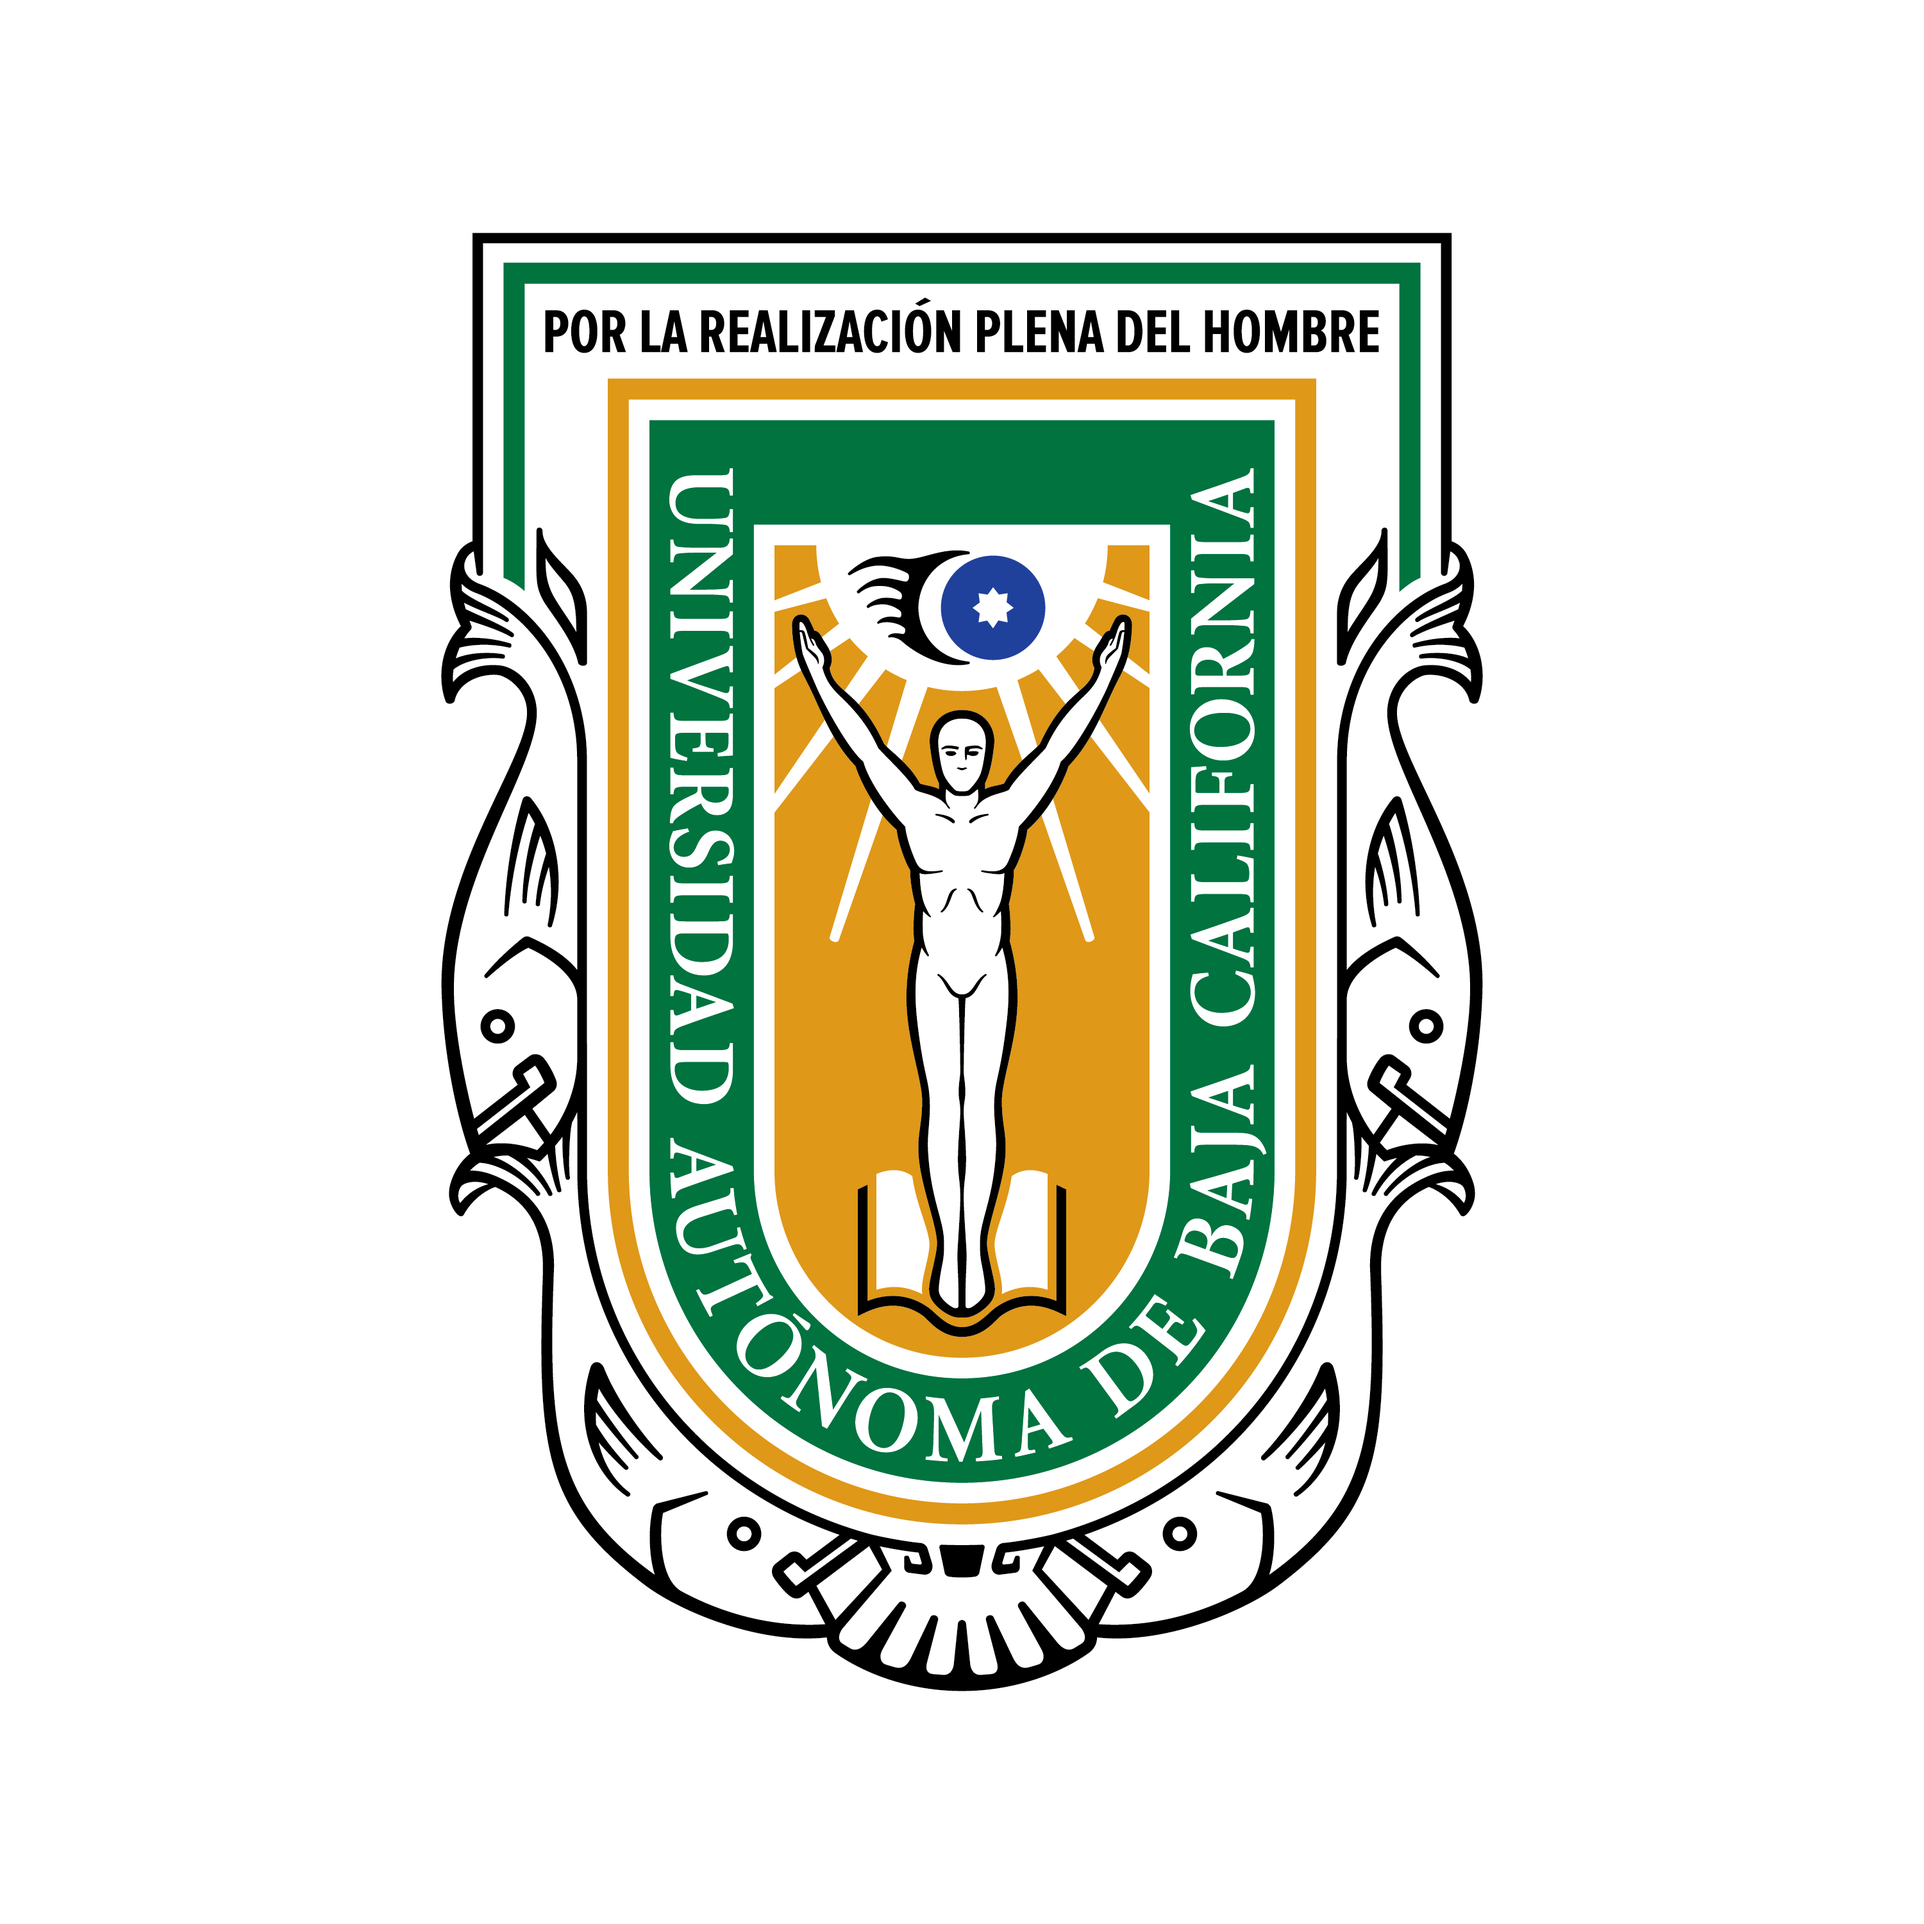
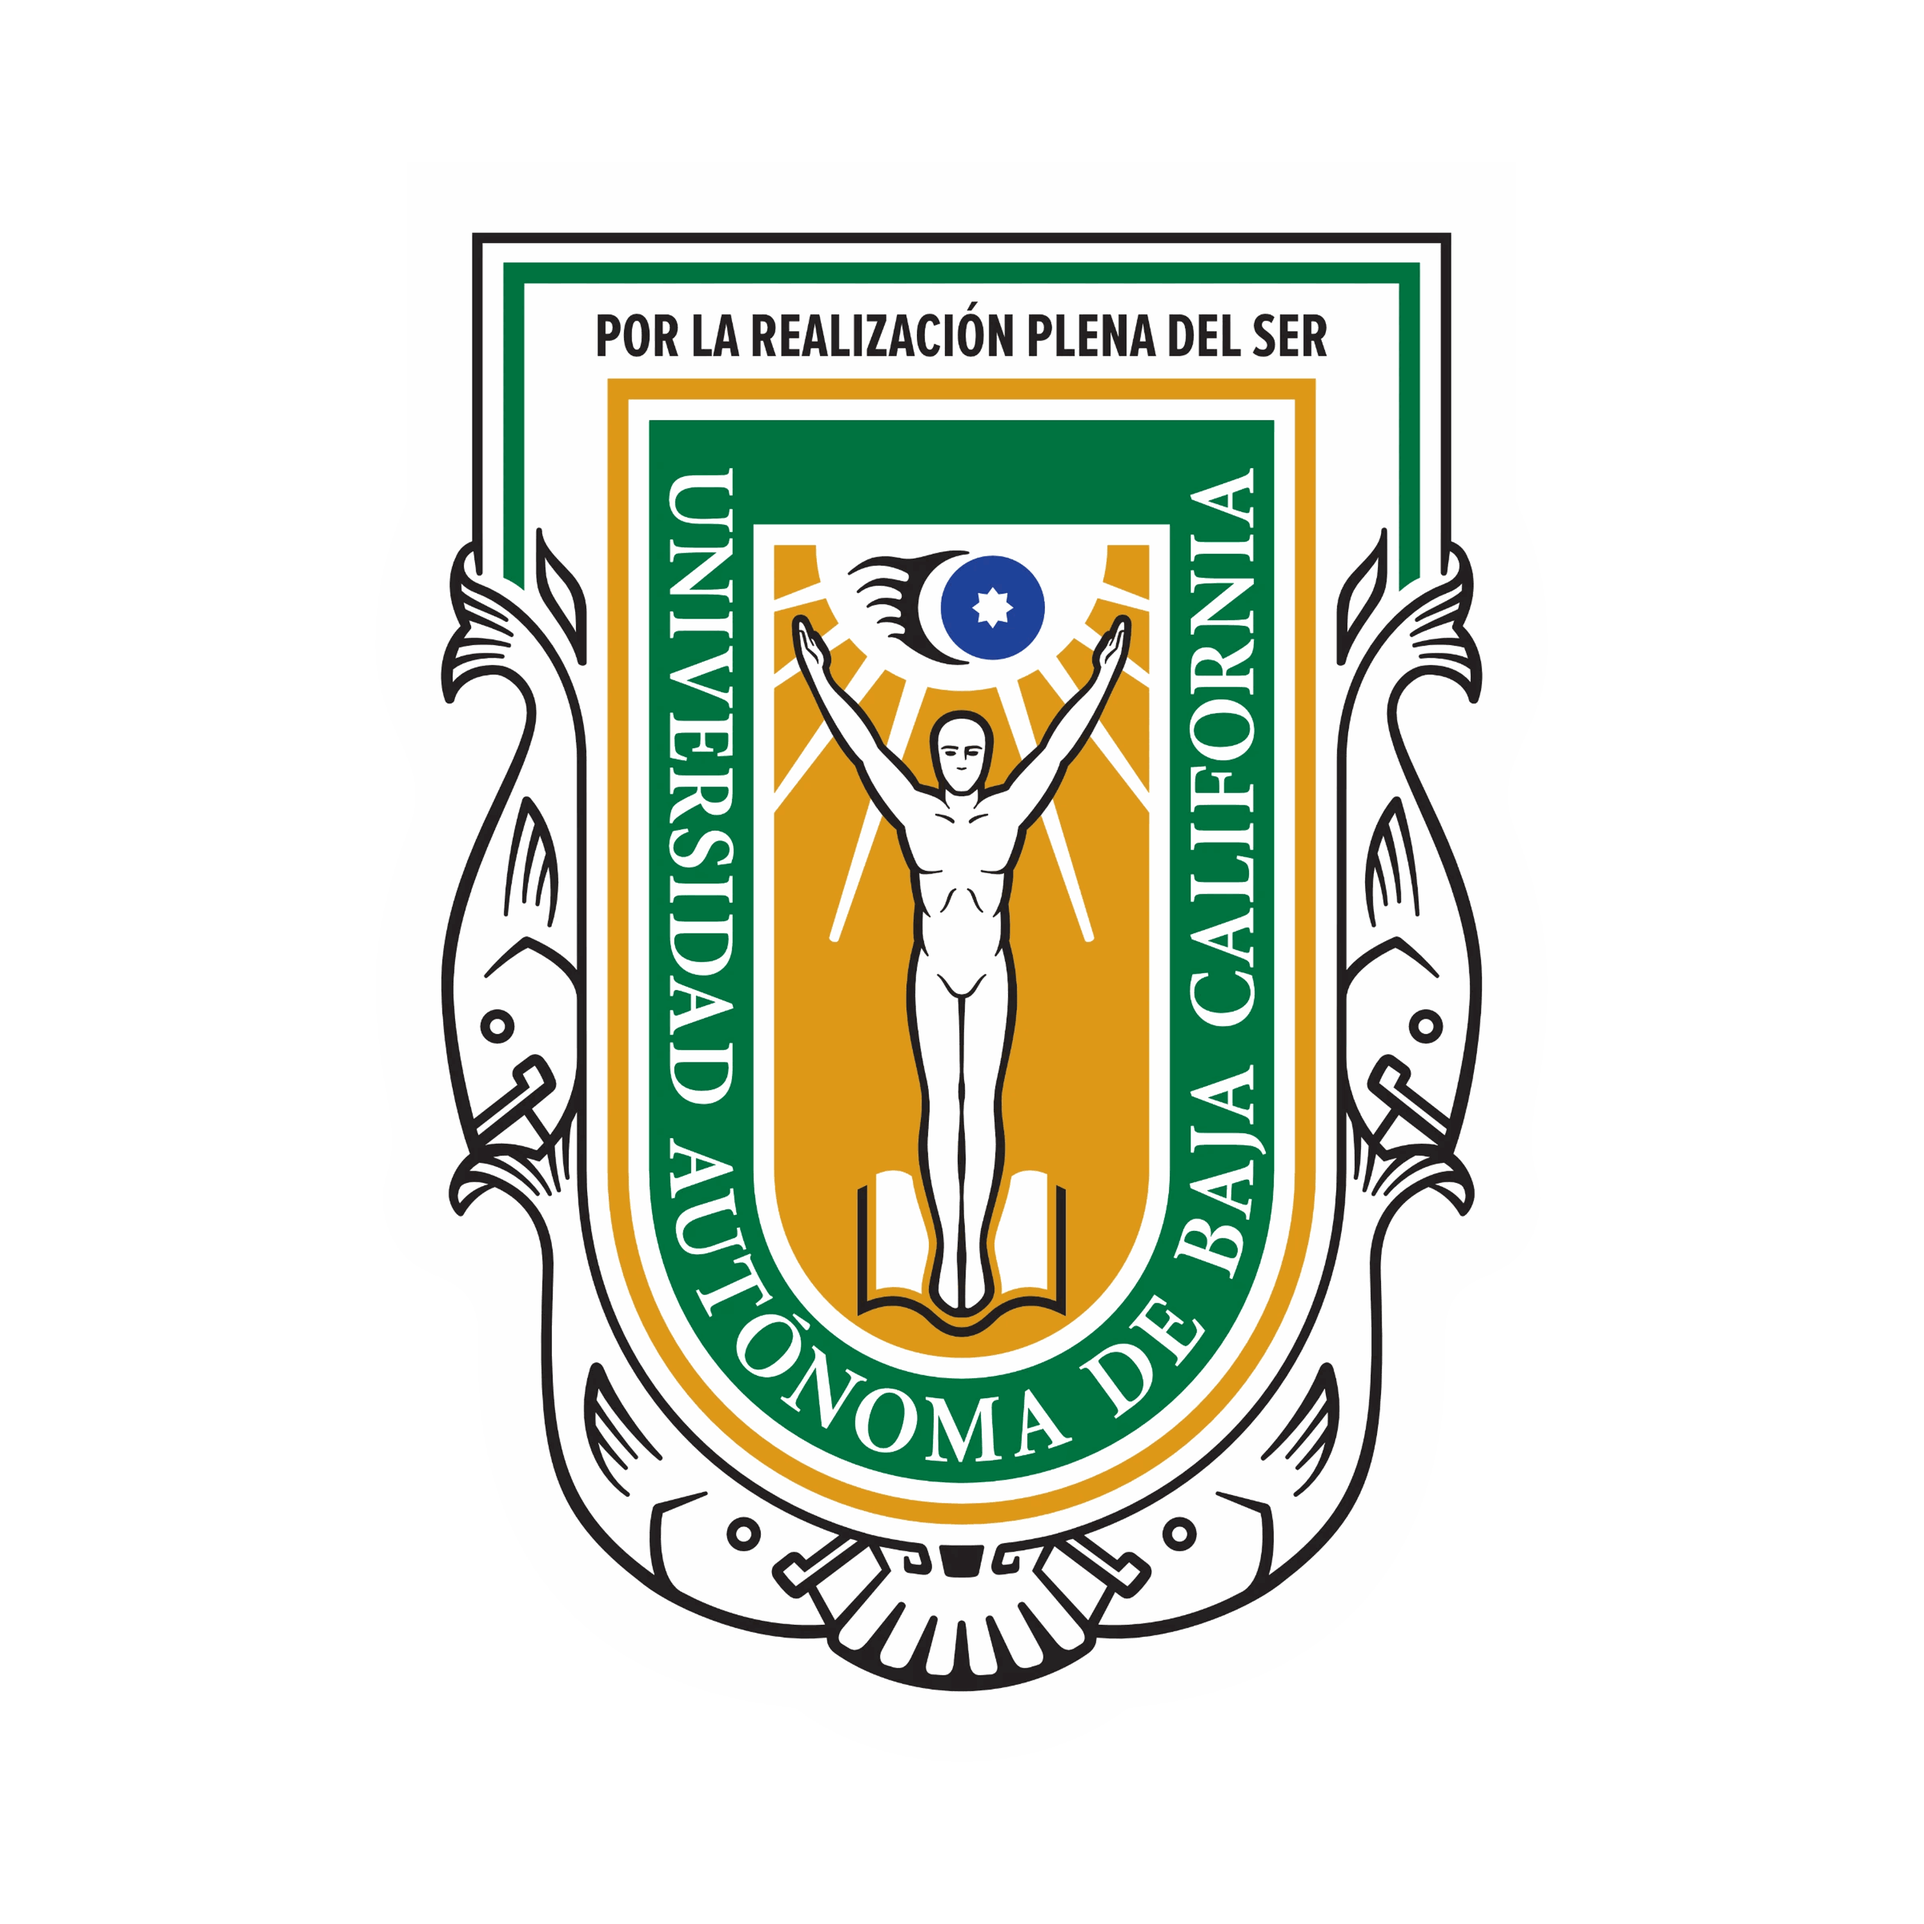
Escudo UABC actualizado en todo el sitio

Changed region(s): [[0.2169, 0.093, 0.7747, 0.8987], [0.4029, 0.3099, 0.5888, 0.7128], [0.4339, 0.2789, 0.4958, 0.3409]]

diff --git a/frontend/src/components/SplashScreen.vue b/frontend/src/components/SplashScreen.vue
@@ -10,7 +10,7 @@ const KEY = "cuenca.splash";
 const DURATION = 4200;
 
 const partners = [
-  { name: "Universidad Autónoma de Baja California", src: "/assets/images/aliados/uabc.webp", w: 263, h: 360 },
+  { name: "Universidad Autónoma de Baja California", src: "/assets/images/aliados/uabc-v2.webp", w: 264, h: 360 },
   { name: "Facultad de Ciencias Químicas e Ingeniería", src: "/assets/images/aliados/fcqi.webp", w: 166, h: 360 },
   { name: "Ayuntamiento de Tijuana", gov: true, src: "/assets/images/aliados/ayuntamiento-tijuana.webp", w: 360, h: 143, wide: true },
   { name: "Sistema Estatal de Protección Civil Baja California", gov: true, src: "/assets/images/aliados/proteccion-civil-bc.webp", w: 1154, h: 360, wide: true },

diff --git a/frontend/src/App.vue b/frontend/src/App.vue
@@ -197,10 +197,10 @@ onMounted(() => {
             >
             <img
               class="footer-uabc"
-              src="/assets/images/logo_uabc-80.webp"
+              src="/assets/images/uabc-escudo-80.webp"
               alt="Escudo UABC"
               width="40"
-              height="52"
+              height="55"
             />
           </div>
           <h2 class="footer-title">Síguenos</h2>

diff --git a/docs/estilos.md b/docs/estilos.md
@@ -15,7 +15,7 @@ La marca del proyecto es el cimarrón brigadista. Las reglas completas están en
 | `icono-180.png` | Ícono al guardar el sitio en iPhone |
 | `icono-96.webp` | Encabezado, junto al nombre (se ve a 44 px) |
 | `firma-horizontal-claro.webp`, `firma-horizontal-oscuro.webp` | Descargas de la página de estilos (firma con el nombre en Lilita One) |
-| `assets/images/logo_uabc-80.webp` | Escudo UABC del pie (6 KB en lugar de 83 KB) |
+| `assets/images/uabc-escudo-80.webp` | Escudo UABC del pie (6 KB en lugar de 83 KB) |
 | `mascota-240.webp`, `mascota-480.webp` | Cimarrón guía (`MascotGuide.vue`) |
 | `silueta.png` | Máscara de la silueta en marcas de agua |
 | `sello-480.webp` | Página de estilos |
